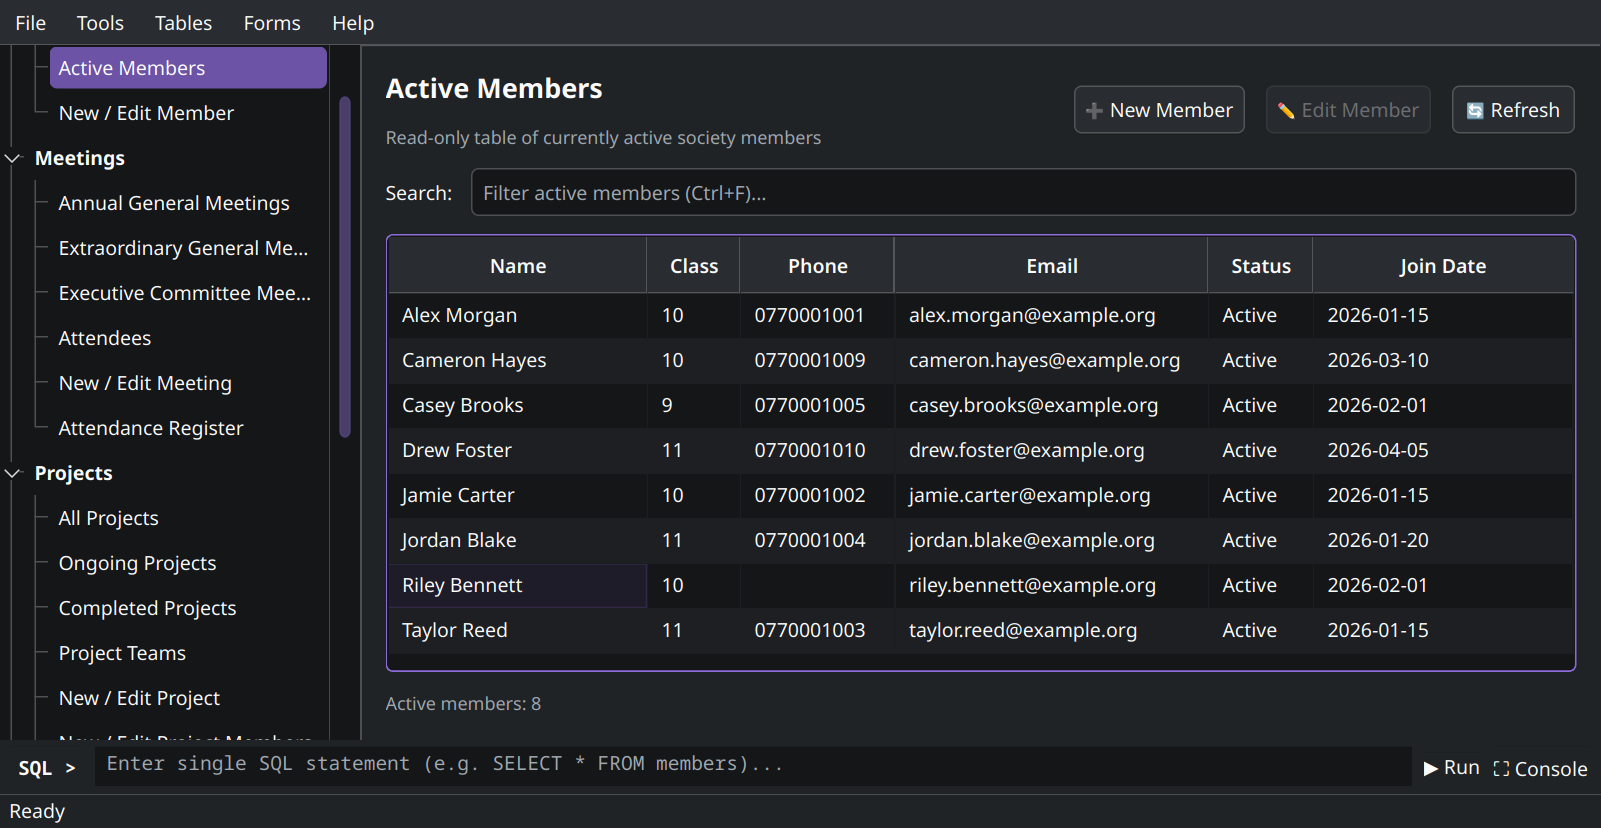
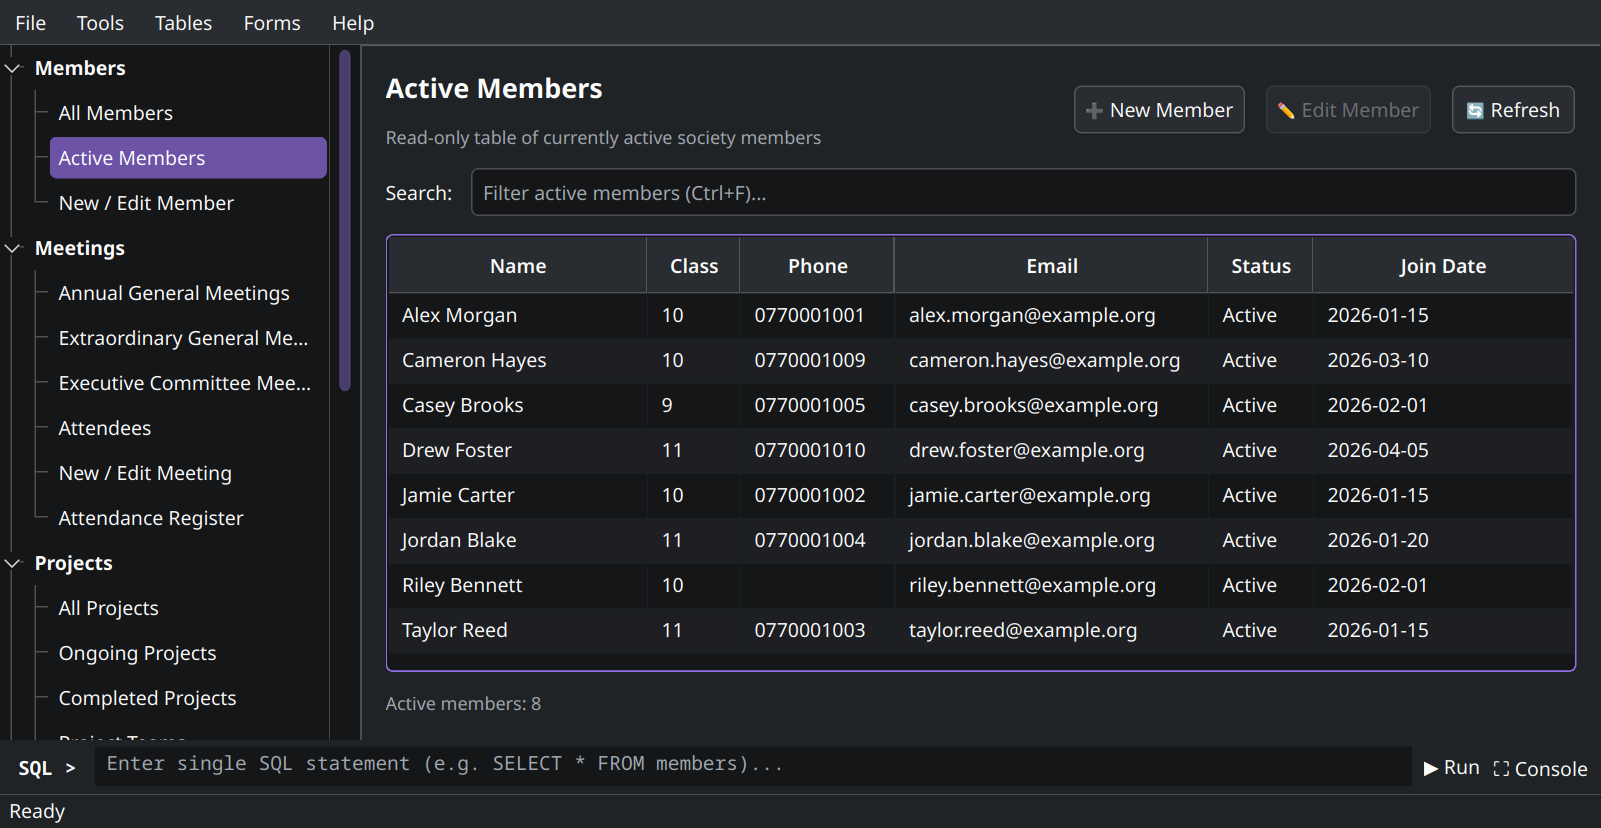
Name application MSMS HQ and update window titles

diff --git a/src/ui/DatabaseSelectionDialog.cpp b/src/ui/DatabaseSelectionDialog.cpp
@@ -15,7 +15,7 @@ namespace MSMS {
 DatabaseSelectionDialog::DatabaseSelectionDialog(QWidget *parent)
     : QDialog(parent)
 {
-    setWindowTitle(tr("MSMS Manager — Select Database"));
+    setWindowTitle(tr("MSMS HQ — Select Database"));
     setMinimumWidth(480);
     setModal(true);
 
@@ -24,13 +24,13 @@ DatabaseSelectionDialog::DatabaseSelectionDialog(QWidget *parent)
     mainLayout->setContentsMargins(24, 24, 24, 24);
 
     // Title / Header
-    QLabel *titleLabel = new QLabel(tr("MSMS Manager"), this);
+    QLabel *titleLabel = new QLabel(tr("MSMS HQ"), this);
     titleLabel->setProperty("heading", true);
     titleLabel->setStyleSheet("font-size: 18px; font-weight: bold;");
     mainLayout->addWidget(titleLabel);
 
     QLabel *descLabel = new QLabel(
-        tr("Welcome to MSMS Manager. An active SQLite database is required to manage membership and society records.\n\nPlease choose an option below to get started:"),
+        tr("Welcome to MSMS HQ. An active SQLite database is required to manage membership and society records.\n\nPlease choose an option below to get started:"),
         this
     );
     descLabel->setWordWrap(true);

diff --git a/mainwindow.cpp b/mainwindow.cpp
@@ -403,10 +403,10 @@ void MainWindow::updateWindowTitle()
 {
     QString path = DatabaseManager::instance().databasePath();
     if (path.isEmpty()) {
-        setWindowTitle(tr("MSMS Manager — No Database Connected"));
+        setWindowTitle(tr("MSMS HQ — No Database Connected"));
     } else {
         QFileInfo fi(path);
-        setWindowTitle(tr("MSMS Manager — %1 [%2]").arg(fi.fileName(), fi.absolutePath()));
+        setWindowTitle(tr("MSMS HQ — %1 [%2]").arg(fi.fileName(), fi.absolutePath()));
     }
 }
 
@@ -593,8 +593,8 @@ void MainWindow::onAbout()
 {
     QMessageBox::about(
         this,
-        tr("About MSMS Manager"),
-        tr("<h3>MSMS Manager</h3>"
+        tr("About MSMS HQ"),
+        tr("<h3>MSMS HQ</h3>"
            "<p><b>Version 1.0.0 (Milestone 2)</b></p>"
            "<p>Offline desktop application for managing MSMS membership and society records.</p>"
            "<p>Built with C++17, Qt 6 Widgets &amp; SQL, and SQLite.</p>"

diff --git a/main.cpp b/main.cpp
@@ -7,7 +7,8 @@ int main(int argc, char *argv[])
 {
     QApplication app(argc, argv);
 
-    app.setApplicationName("MSMSManager");
+    app.setApplicationName("MSMS HQ");
+    app.setApplicationDisplayName("MSMS HQ");
     app.setApplicationVersion("1.0.0");
     app.setOrganizationName("MSMS");
     app.setOrganizationDomain("msms.org");
